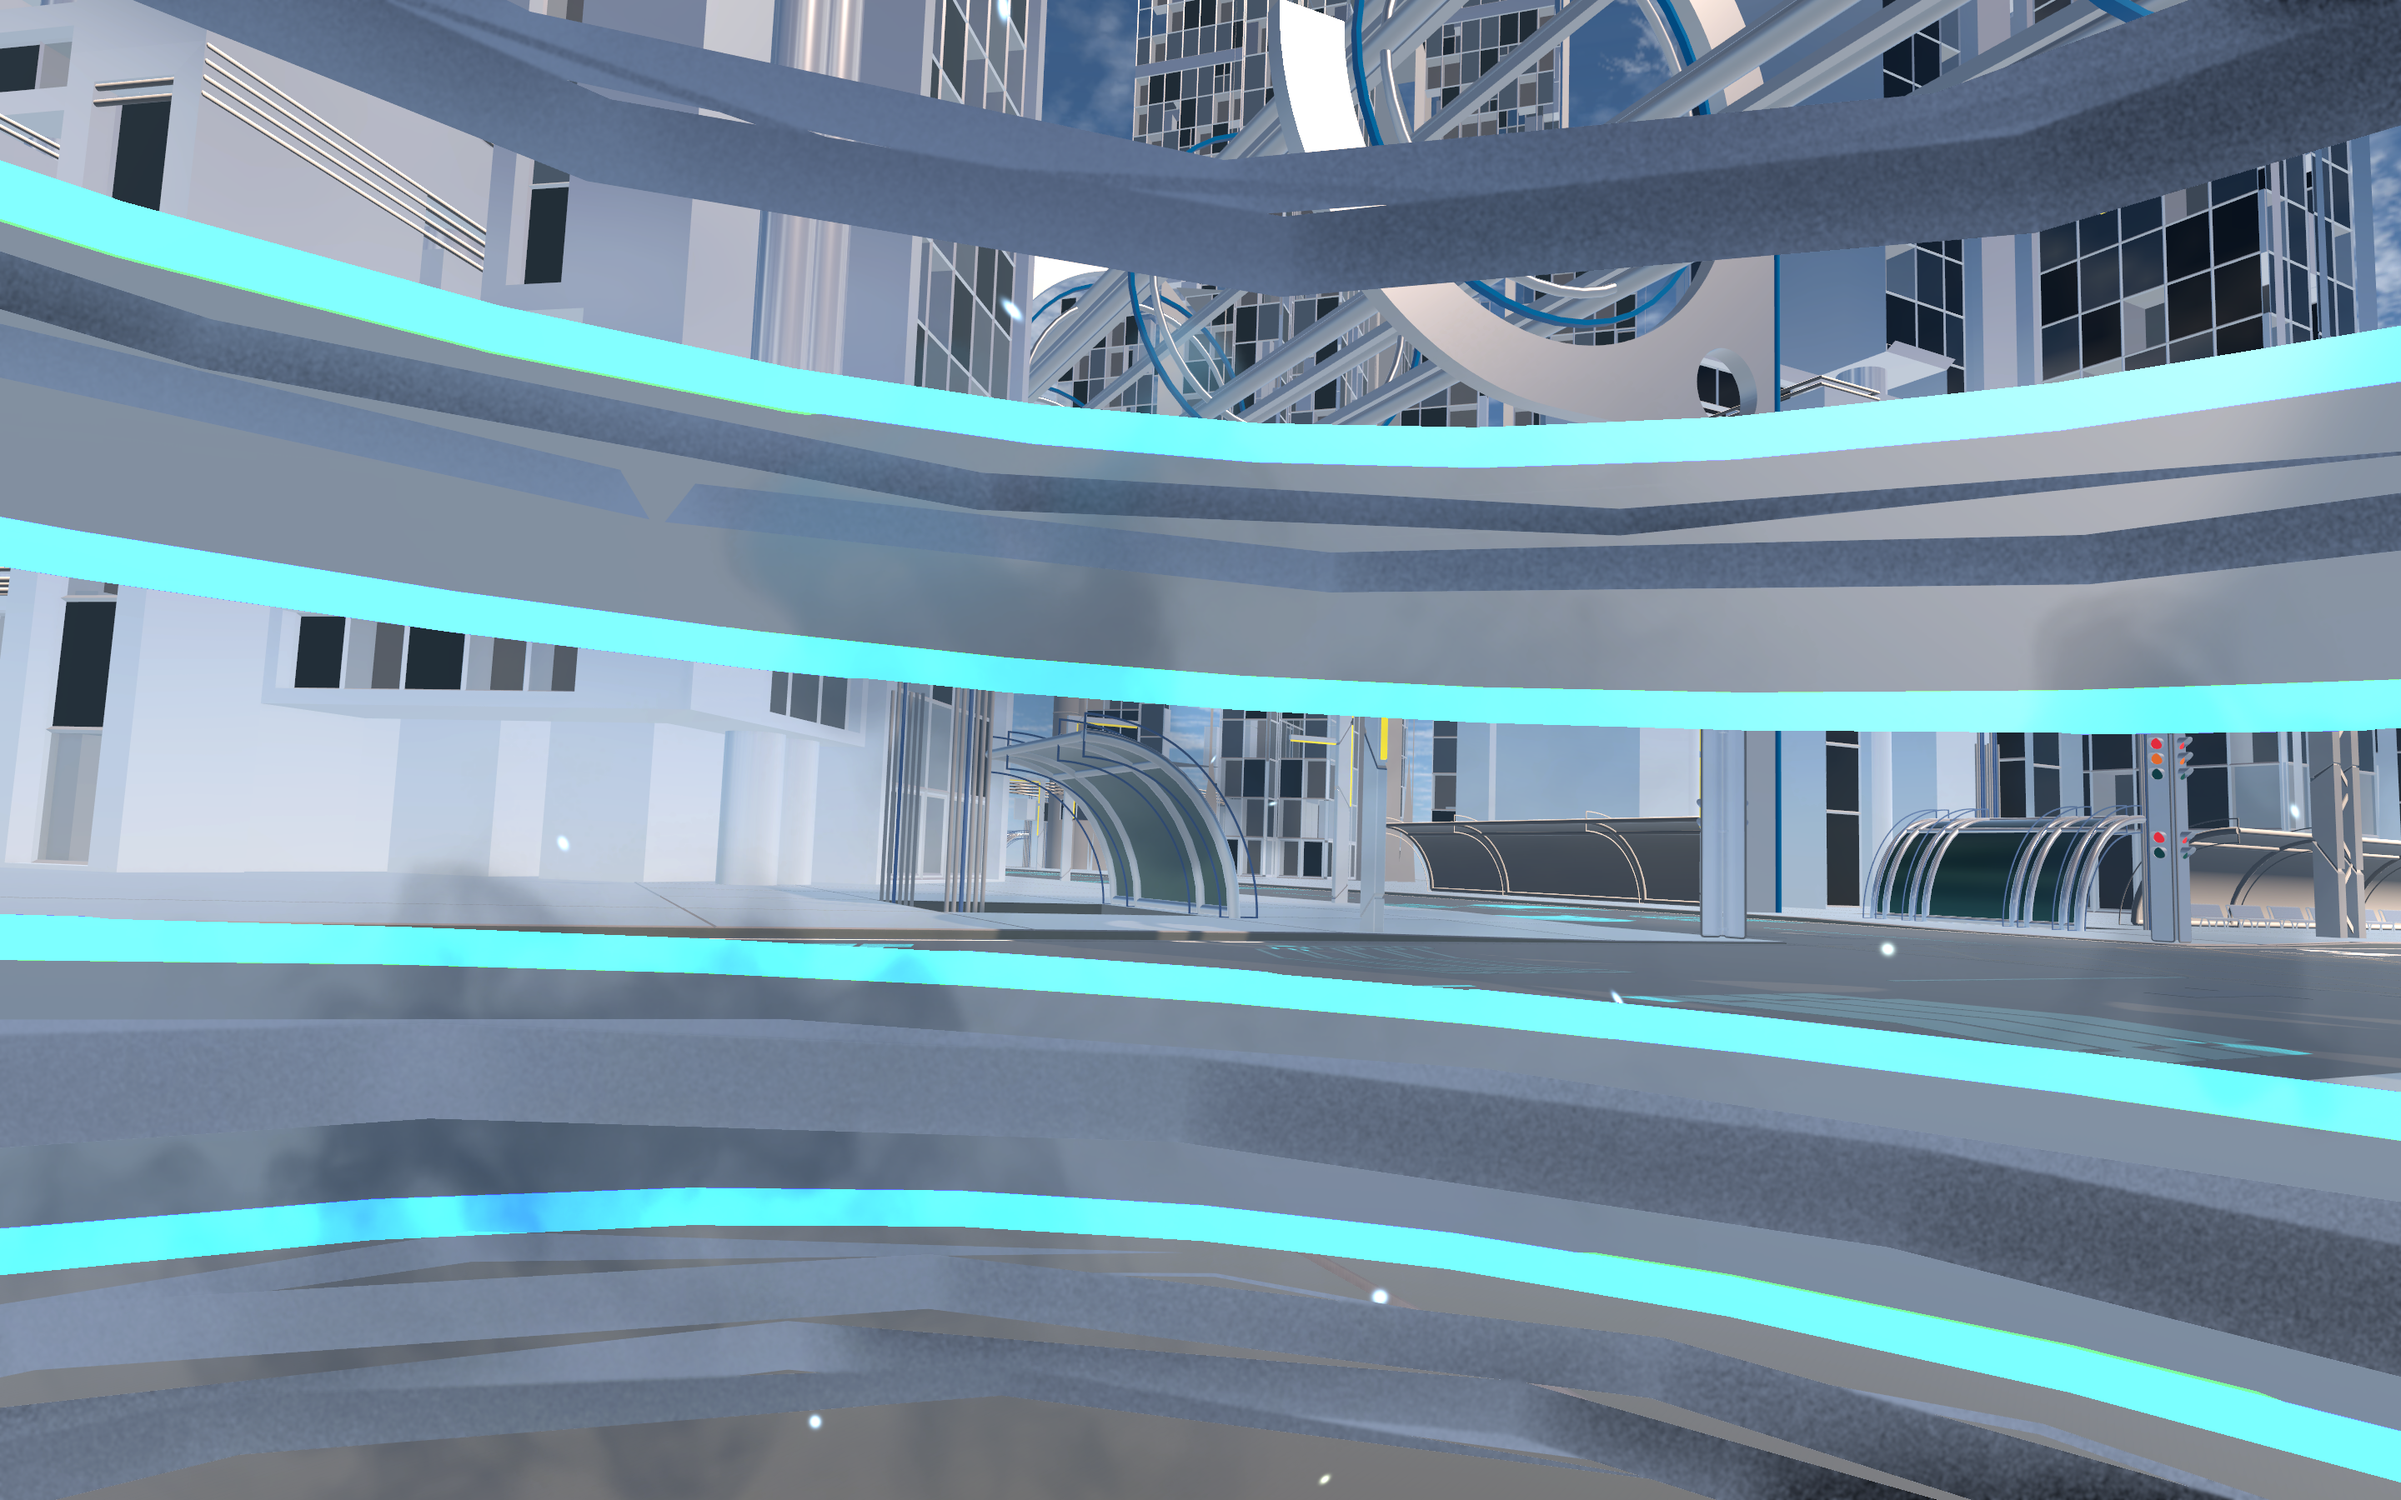
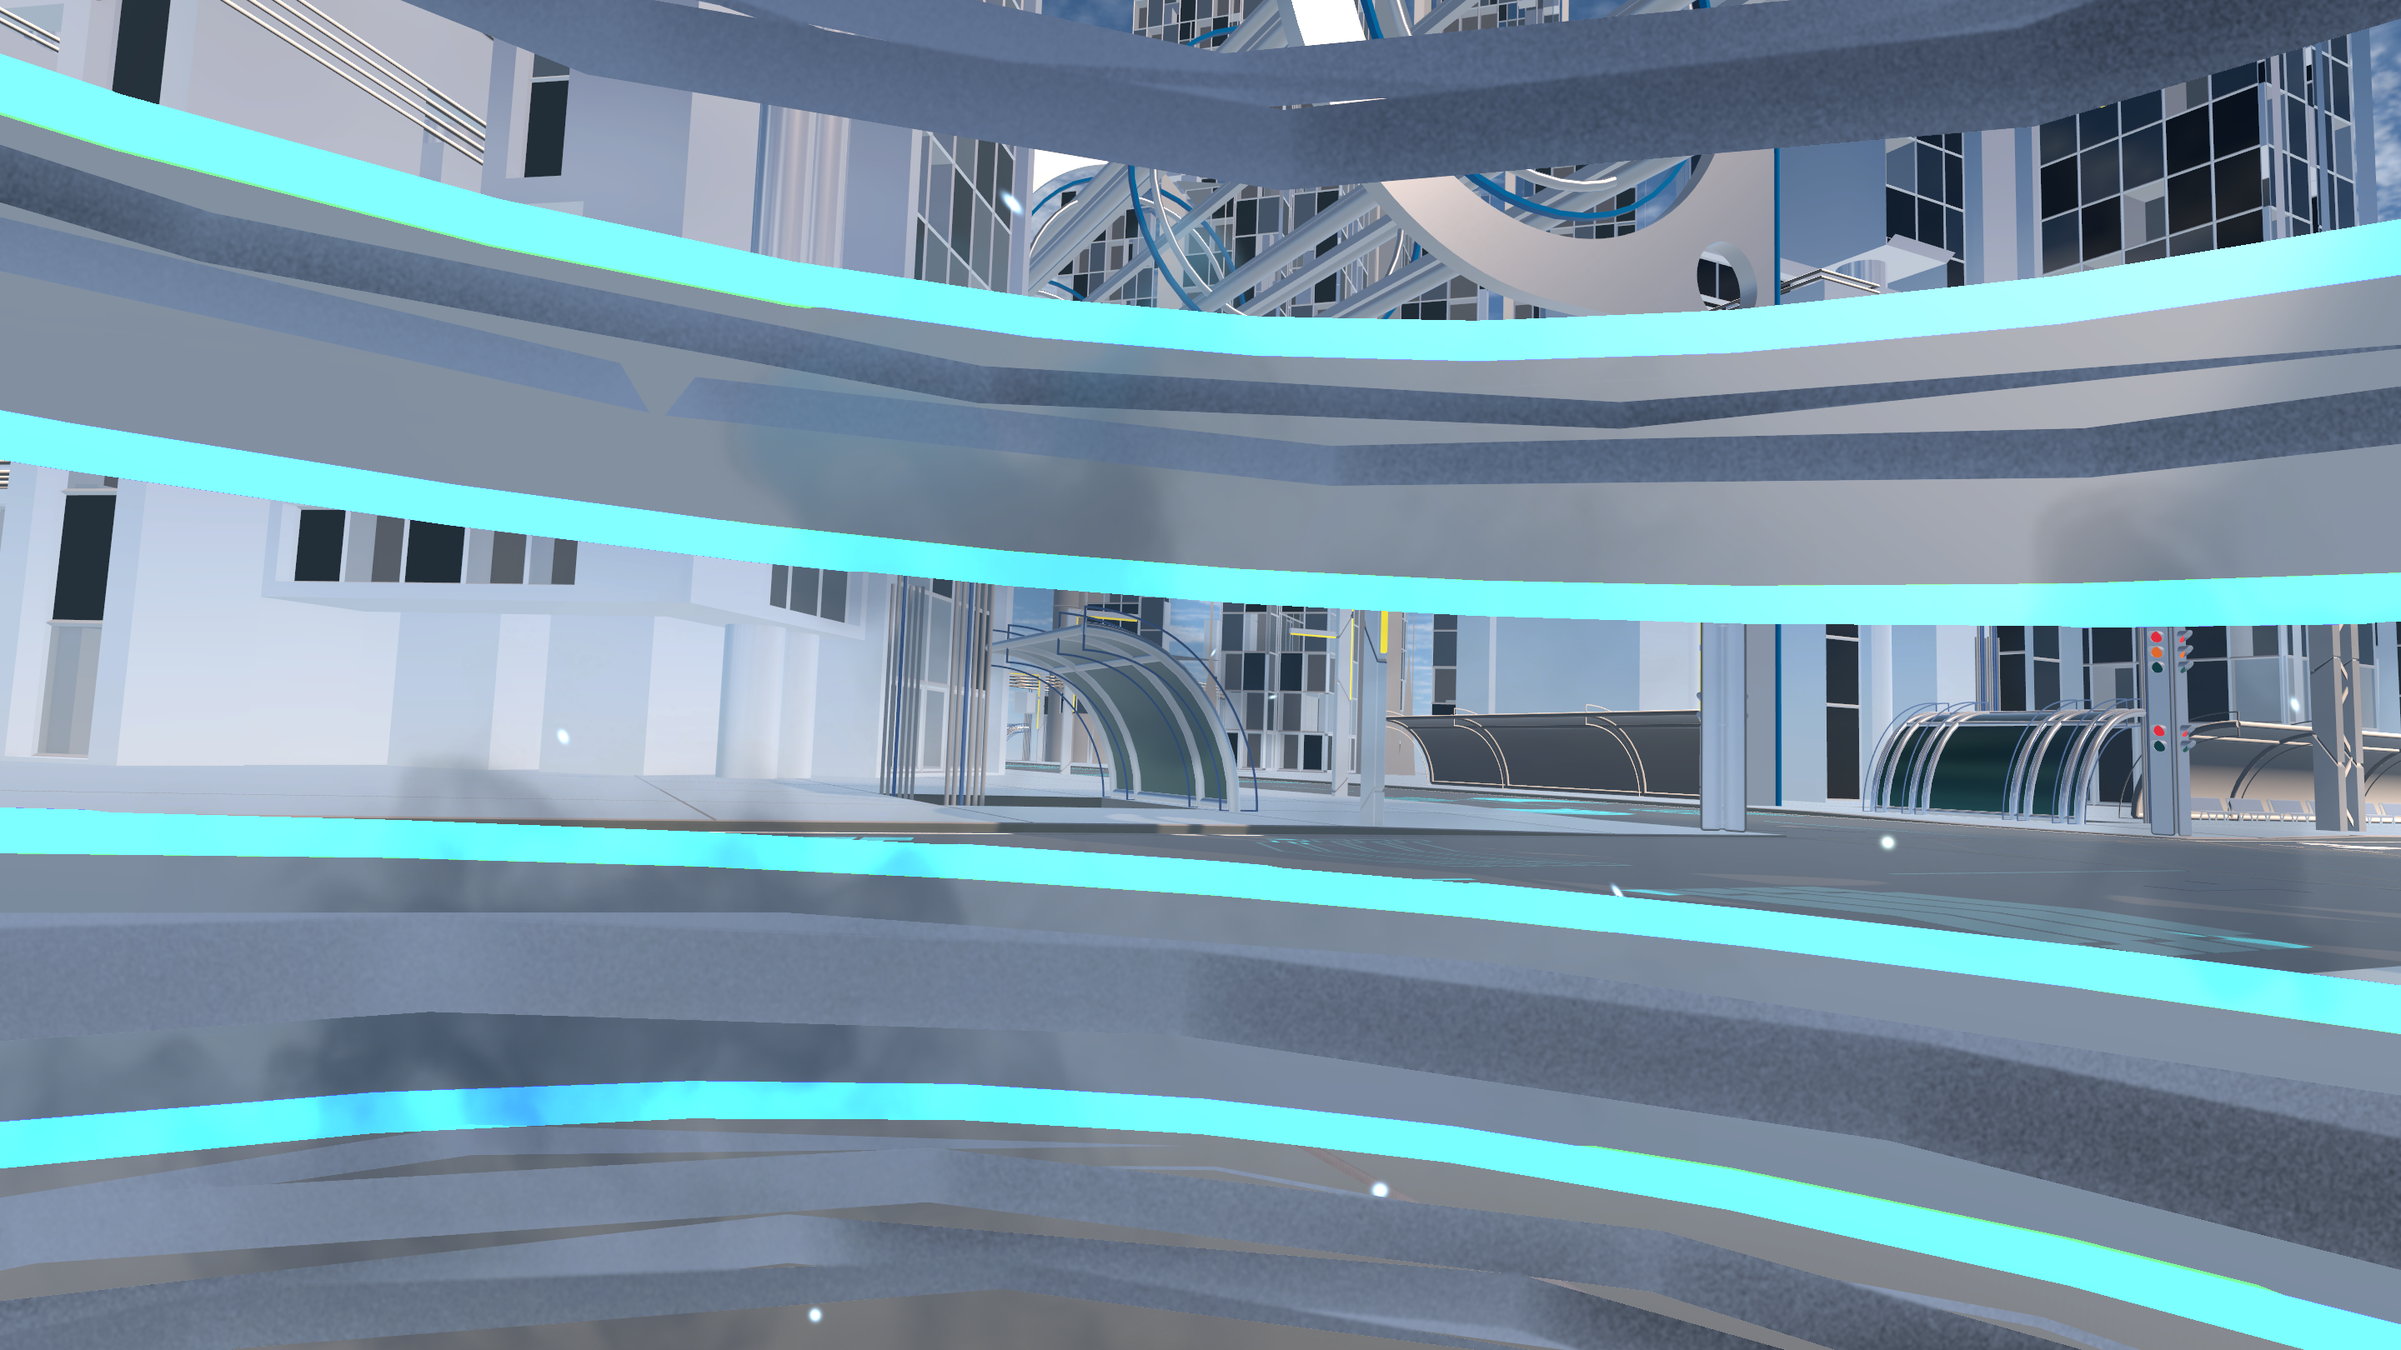
Content & Minor Layout Update

diff --git a/src/content.ts b/src/content.ts
@@ -9,6 +9,7 @@ export type PortfolioItem = {
   description: Localized
   /** Supported formats: YYYY, YYYY-MM, or YYYY-MM-DD */
   date: string
+  dateEnd?: string
   images: { src: string, alt: Localized }[]
   tags: string[]
   featured?: boolean
@@ -42,7 +43,7 @@ export const profile = {
   },
   email: "cecilia.halbritter@student.hs-rm.de",
   github: "https://github.com/fieeesch/",
-  linkedin: "www.linkedin.com/in/cecilia-halbritter-5737b7349/",
+  linkedin: "https://linkedin.com/in/cecilia-halbritter-5737b7349/",
   location: "Wiesbaden, Deutschland",
   heroImage: asset("/images/cecilia-hero.jpg"),
   heroAlt: {
@@ -106,7 +107,7 @@ export const projects: PortfolioItem[] = [
         },
       },
     ],
-    tags: ["React", "Ollama", "Raspberry Pi"],
+    tags: ["ReactJS", "Ollama", "Raspberry Pi"],
     link: "https://github.com/Fieeesch/TretBot",
     demoLink: "https://tretbot.dtmayer.dev/",
     notes: {
@@ -162,10 +163,6 @@ export const projects: PortfolioItem[] = [
     ],
     tags: ["Unity", "C#", "Haptics"],
     link: "https://github.com/Fieeesch/PustePorter",
-    notes: {
-      de: "",
-      en: "",
-    },
   },
   {
     id: "propeller",
@@ -209,7 +206,7 @@ export const projects: PortfolioItem[] = [
         src: asset("/images/prop-webui.png"),
         alt: {
           de: "Web-UI zur Szenenkonfiguration und Ansicht des Render-Ergebnisses. Aktuell ausgewählt ist der Prisma-Renderer",
-          en: "Web UI used for scene konfiguration and viewing results. Currently displaying the Prism Renderer",
+          en: "Web UI used for scene configuration and viewing results. Currently displaying the Prism Renderer",
         },
       },
     ],
@@ -298,36 +295,36 @@ export const projects: PortfolioItem[] = [
       {
         src: asset("/images/1001km-title.png"),
         alt: {
-          de: "",
-          en: "",
+          de: "Titelgrafik der 1001-km-App mit Smartphone, Kartenansicht und Fahrradroute",
+          en: "Title graphic of the 1001 km app with a smartphone, map view, and cycling route",
         },
       },
       {
         src: asset("/images/1001km-tracking.png"),
         alt: {
-          de: "",
-          en: "",
+          de: "Tracking-Folie mit Smartphone-Kartenansicht, Live-Statistiken und Hinweis zum Aufzeichnen von Etappen",
+          en: "Tracking slide with a smartphone map view, live statistics, and a note about recording stages",
         },
       },
       {
         src: asset("/images/1001km-planung.png"),
         alt: {
-          de: "",
-          en: "",
+          de: "Planungsfolie mit Tourübersicht auf einer Deutschlandkarte und Stichpunkten zum Importieren und Zusammenstellen von Routen",
+          en: "Planning slide with a tour overview on a map of Germany and bullet points about importing and assembling routes",
         },
       },
       {
         src: asset("/images/1001km-tour.png"),
         alt: {
-          de: "",
-          en: "",
+          de: "Tourübersicht der 1001-km-App mit Fortschritt, Statistikwerten, Etappenliste und Optionen zum Nachtragen von Etappen",
+          en: "Tour overview of the 1001 km app with progress, statistics, a stage list, and options for adding stages afterwards",
         },
       },
       {
         src: asset("/images/1001km-etappe.png"),
         alt: {
-          de: "",
-          en: "",
+          de: "Etappenübersicht mit Details zur gefahrenen Strecke, Statistiken und Kartenverlauf einer einzelnen Radtour",
+          en: "Stage overview with details about the ridden route, statistics, and map trace of a single bike ride",
         },
       },
     ],
@@ -339,21 +336,69 @@ export const projects: PortfolioItem[] = [
     },
   },
   {
-    id: "more",
+    id: "portfolio-thesis",
     kind: "project",
-    title: { de: "More is coming...", en: "More is coming..." },
+    title: { de: "Portfolio-Projekt & Bachelor-Thesis", en: "Portfolio Project and Bachelor's Thesis" },
     eyebrow: {
-      de: "to be continued",
-      en: "to be continued",
+      de: "DB Fernverkehr AG",
+      en: "DB Long-Distance AG",
     },
     description: {
-      de: "",
-      en: "",
+      de: "Als duale Studentin bei der Deutschen Bahn hatte ich die einmalige Gelegenheit, mit einer großen Menge an Kund:innendaten zu arbeiten. Darum drehten sich meine Bachelorthesis sowie ein vorbereitendes Portfolioprojekt.\n\nAls Projekt entwickelte ich eine Browser-Extension, die für eine auf bahn.de gesuchte Verbindung anzeigt, wie häufig diese Strecke üblicherweise zu verschiedenen Uhrzeiten gesucht wird. So erhalten Nutzer:innen einen Anhaltspunkt dafür, wie stark die jeweilige Fahrt voraussichtlich ausgelastet sein wird. Grundlage dafür waren Verbindungsanfragen an die Bahn-Systeme, die in einem Data Lake gespeichert und von mir ausgewertet wurden.\n\nWährend meiner Bachelorthesis wertete ich stattdessen Zugbuchungen aus und aggregierte sie zu einem kundenspezifischen Jahresrückblick über die getätigten Reisen. Die Auswertung enthielt beispielsweise die zurückgelegte Strecke oder gespartes CO₂. Ich entwickelte außerdem eine VueJS-Weboberfläche zur Anzeige und analysierte die Gamification-Qualität des Rückblicks.",
+      en: "As a dual study student at Deutsche Bahn, I had the unique opportunity to work with a large amount of customer data. Both my Bachelor's thesis and a preparatory portfolio project focused on making use of this data.\n\nFor the project, I developed a browser extension that shows how frequently a connection searched for on bahn.de is typically requested at different times of day. This gives users an indication of how busy a particular journey is likely to be. The analysis was based on connection requests sent to Deutsche Bahn's systems, which were stored in a data lake and evaluated by me.\n\nFor my Bachelor's thesis, I instead analyzed train bookings and aggregated them into a personalized recap of each customer's journeys in one year. The review included statistics such as the distance traveled and CO₂ saved. I also developed a Vue.js web interface to present the results and analyzed the gamification qualities of the recap.",
     },
-    date: "2024-10-02",
-    images: [],
-    tags: [],
-    link: "https://github.com/Fieeesch",
+    date: "2025-03",
+    dateEnd: "2025-09",
+    images: [
+      {
+        src: asset("/images/portfolio-thesis.png"),
+        alt: {
+          de: "Logo der Deutschen Bahn",
+          en: "Logo of the Deutsche Bahn",
+        },
+      },
+      {
+        src: asset("/images/thesis-concept.png"),
+        alt: {
+          de: "Konzept des Jahresrückblicks: Events werden von Produktivsystem in einen Data Lake geschrieben. Von dort werden Buchungs-Events zu einem Jahresrückblick ausgewertet.",
+          en: "Concept for the yearly recap: events are written from the production system into a data lake, where booking events are analyzed for the recap.",
+        },
+      },
+      {
+        src: asset("/images/thesis-jr.png"),
+        alt: {
+          de: "Auszug aus dem Jahresrückblick. Beinhaltet Statistiken zur Anzahl der Reisen, zurückgelegter Strecke und Reisedauer.",
+          en: "Excerpt from the yearly recap with statistics about the number of trips, distance traveled, and travel duration.",
+        },
+      },
+    ],
+    tags: ["Data Lake", "VueJS", "Gamification"],
+  },
+  {
+    id: "praxisphasen",
+    kind: "project",
+    title: { de: "Praxiserfahrung im Dualen Studium", en: "Practical Training during my Dual Study Program" },
+    eyebrow: {
+      de: "DB Fernverkehr AG",
+      en: "DB Long-Distance AG",
+    },
+    description: {
+      de: "Die Praxisphasen meines Dualen Studiums bei der Deutschen Bahn habe ich in dem Projekt absolviert, das die digitalen Vertriebskanäle (z.B. Website, DB Navigator-App) entwickelt. Dabei durfte ich in jeder Praxisphase eine separate Abteilung kennenlernen.\n\n• Backend-Services mit Java Spring Boot: Ich habe im regulären Betrieb User Stories im Zusammenhang mit der Reiseauskunft bearbeitet.\n\n• Frontend-Entwicklung mit VueJS: Ich habe eine prototypische neue Komponente für die Verbindungsübersicht auf bahn.de entwickelt. Es ging um das schnelle Filtern von Verbindungen mithilfe einer Filtering Sidebar. Die Weiterentwicklung dieser Komponente ist inzwischen live gegangen.\n\n• Innovationsmanagement: Hier habe ich untersucht, inwiefern verschiedene Machine Learning-Modelle trainiert und eingesetzt werden können, um Storypoints von User Stories zu schätzen.",
+      en: "I completed the practical phases of my dual study program at Deutsche Bahn within the project responsible for developing its digital sales channels, such as the website and the DB Navigator app. During each practical phase, I had the opportunity to work with a different department.\n\n• Backend services with Java Spring Boot: As part of the regular development process, I worked on user stories related to journey planning.\n\n• Frontend development with Vue.js: I developed a prototype for a new component in the connection overview on bahn.de. The goal was to enable users to quickly filter connections using a filtering sidebar. A further developed version of this component has since gone live.\n\n• Innovation management: I investigated how different machine learning models could be trained and used to estimate story points for user stories.",
+    },
+    date: "2023",
+    dateEnd: "2025",
+    images: [
+      {
+        src: asset("/images/praxisphase.png"),
+        alt: {
+          de: "Logo der Deutschen Bahn",
+          en: "Logo of the Deutsche Bahn",
+        },
+      },
+    ],
+    tags: ["Spring Boot", "VueJS", "Machine Learning"],
+    link: "https://bahn.de",
   },
 ]
 

diff --git a/src/App.tsx b/src/App.tsx
@@ -22,7 +22,7 @@ import { cv, Language, PortfolioItem, profile, projects, publications, ui } from
 
 type Page = "home" | "projects" | "publications" | "about" | "detail";
 
-function formatPortfolioDate(
+function formatPortfolioDatePart(
   value: string,
   language: Language,
   monthStyle: "short" | "long" = "long",
@@ -48,6 +48,23 @@ function formatPortfolioDate(
     month: monthStyle,
     year: "numeric",
   }).format(date);
+}
+
+function formatPortfolioDate(
+  value: string,
+  language: Language,
+  monthStyle: "short" | "long" = "long",
+  endValue?: string,
+) {
+  const start = formatPortfolioDatePart(value, language, monthStyle);
+  if (!endValue) return start;
+
+  const end = formatPortfolioDatePart(endValue, language, monthStyle);
+  return `${start} – ${end}`;
+}
+
+function getPortfolioSortDate(item: PortfolioItem) {
+  return item.dateEnd ?? item.date;
 }
 
 function ButtonLink({
@@ -249,7 +266,7 @@ function Home({ language, navigate }: { language: Language; navigate: (page: Pag
   const t = ui[language];
   const featuredItems = [...projects, ...publications]
     .filter((item) => item.featured)
-    .sort((a, b) => b.date.localeCompare(a.date));
+    .sort((a, b) => getPortfolioSortDate(b).localeCompare(getPortfolioSortDate(a)));
 
   return (
     <>
@@ -369,7 +386,7 @@ function ItemCard({
   showKind?: boolean;
 }) {
   const t = ui[language];
-  const date = formatPortfolioDate(item.date, language, "short");
+  const date = formatPortfolioDate(item.date, language, "short", item.dateEnd);
   return (
     <article
       className={`item-card ${featured ? "card-featured" : ""}`}
@@ -423,7 +440,8 @@ function Detail({
   const [imageIndex, setImageIndex] = useState(0);
   const t = ui[language];
   const returnPage = item.kind === "project" ? "projects" : "publications";
-  const date = formatPortfolioDate(item.date, language);
+  const date = formatPortfolioDate(item.date, language, "long", item.dateEnd);
+  const hasProjectAndDemoLinks = Boolean(item.link && item.demoLink);
 
   return (
     <article className="section detail-page">
@@ -482,15 +500,15 @@ function Detail({
               <p>{item.notes[language]}</p>
             </div>
           )}
-          {item.link && (
-            <ButtonLink href={item.link}>
-              {item.kind === "project" ? t.visit : t.publication}
+          {item.demoLink && (
+            <ButtonLink secondary={!hasProjectAndDemoLinks} href={item.demoLink}>
+              {t.demo}
               <ExternalLink size={17} />
             </ButtonLink>
           )}
-          {item.demoLink && (
-            <ButtonLink secondary href={item.demoLink}>
-              {t.demo}
+          {item.link && (
+            <ButtonLink secondary={hasProjectAndDemoLinks} href={item.link}>
+              {item.kind === "project" ? t.visit : t.publication}
               <ExternalLink size={17} />
             </ButtonLink>
           )}
